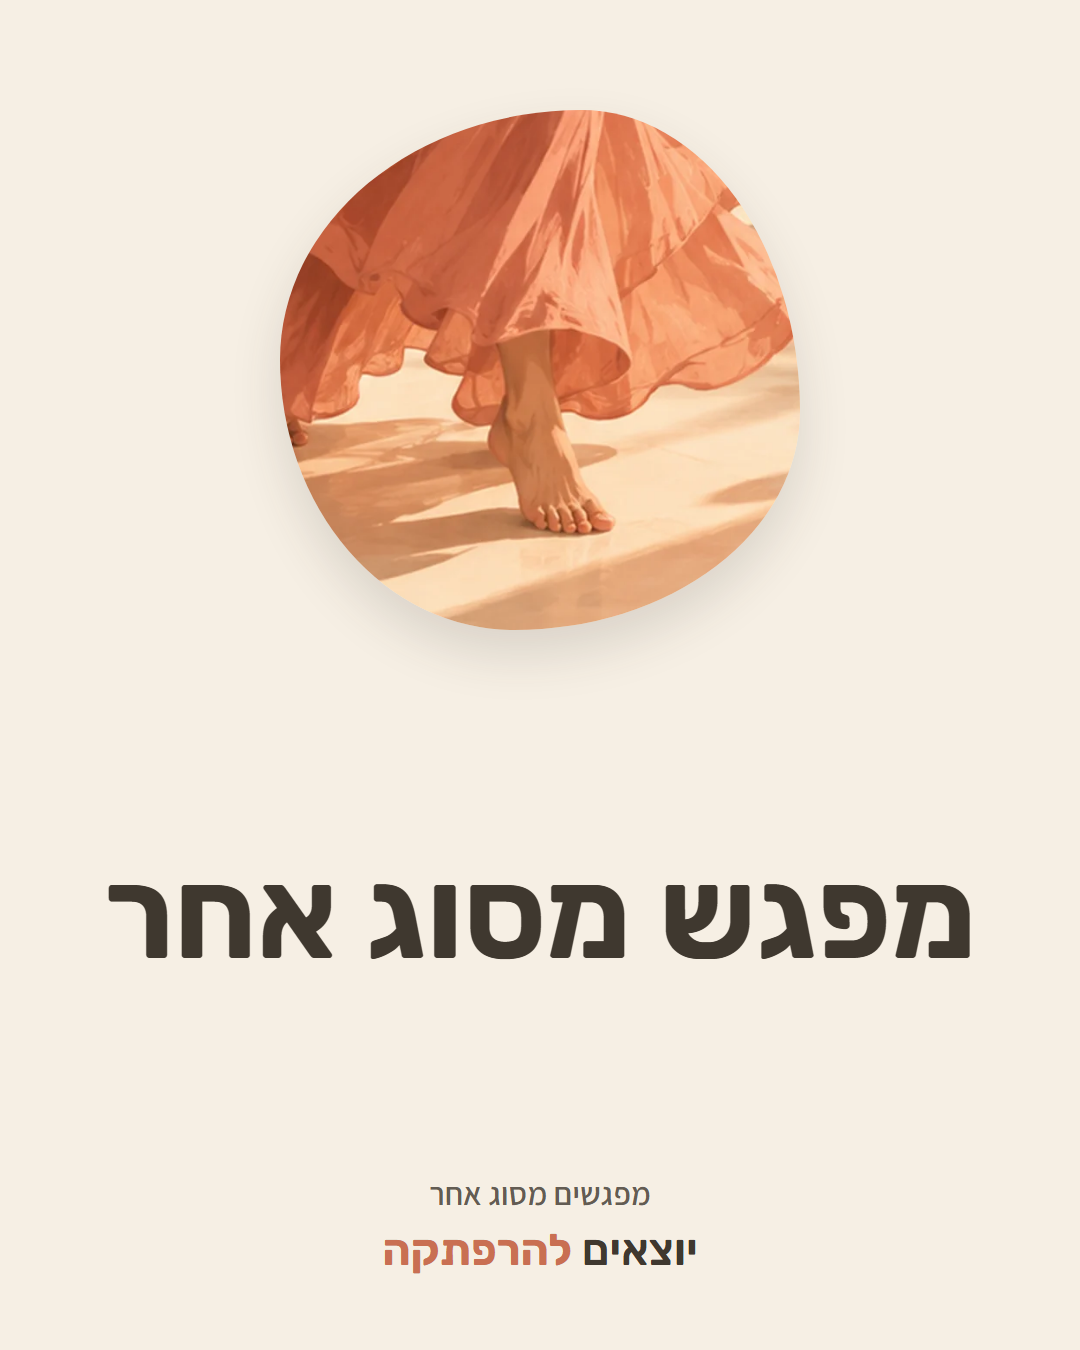
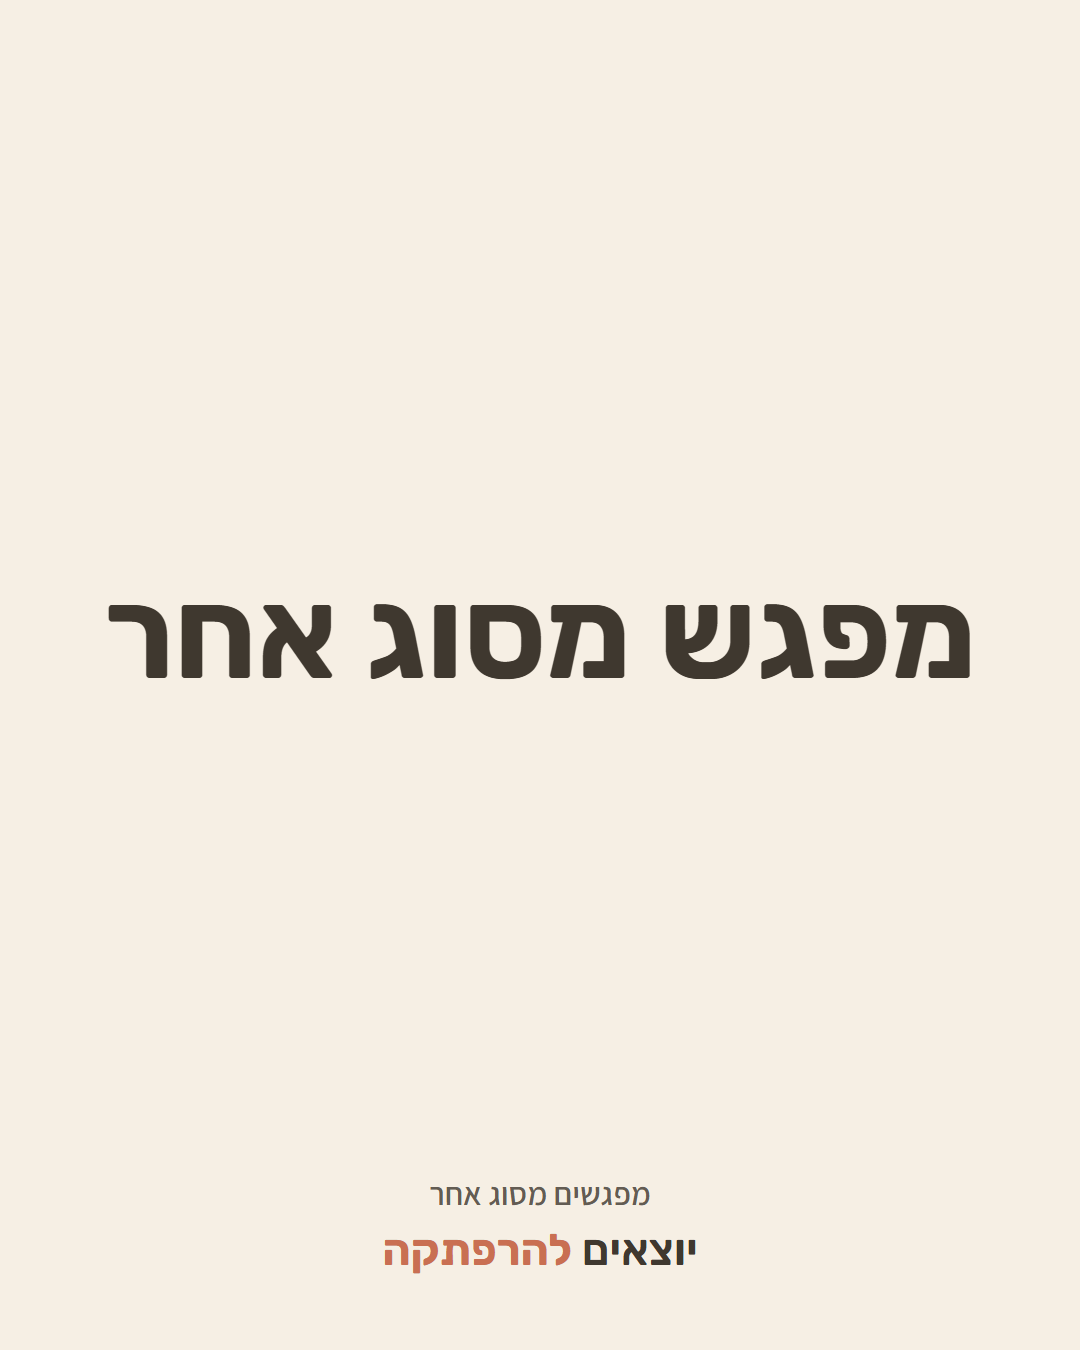
ads: תמונות טקסט בלבד, בלי צילומים בתוכן

diff --git a/ads/tools/build_ads.py b/ads/tools/build_ads.py
@@ -10,9 +10,9 @@ DANCERS = '<svg viewBox="0 0 48 52" fill="currentColor" style="width:100%;height
 
 # עיצובים: bg, צבע טקסט, צבע הדגשה, צבע לוגו, תמונה/מסגרת
 STYLES = [
-  dict(k="cream",  bg="#F6EFE4", fg="#3F382F", acc="#C96F52", deco="blob"),
+  dict(k="cream",  bg="#F6EFE4", fg="#3F382F", acc="#C96F52", deco="none"),
   dict(k="terra",  bg="#C96F52", fg="#FFFDF9", acc="#F6EFE4", deco="none"),
-  dict(k="sand",   bg="#E8D5BE", fg="#3F382F", acc="#C96F52", deco="blob"),
+  dict(k="sand",   bg="#E8D5BE", fg="#3F382F", acc="#C96F52", deco="none"),
   dict(k="olive",  bg="#686A48", fg="#FFFDF9", acc="#E8D5BE", deco="none"),
   dict(k="mail",   bg="#F6EFE4", fg="#3F382F", acc="#C96F52", deco="mail"),
   dict(k="dusty",  bg="linear-gradient(160deg,#E7B7A6,#C98D86)", fg="#3F382F", acc="#FFFDF9", deco="none"),
